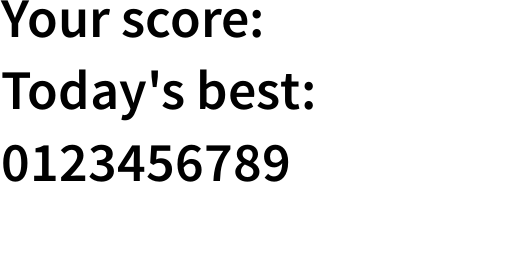
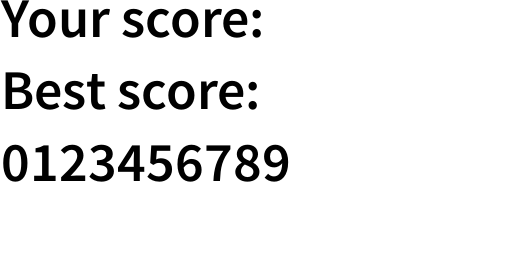
Store best score.  Avoid spending too much energy on projectiles

Changed region(s): [[0.0, 0.25, 0.625, 0.4688]]

diff --git a/game.js b/game.js
@@ -778,7 +778,7 @@ var GAME_health, GAME_healthMax;
 var GAME_score;
 var GAME_mission, GAME_missionScroll;
 var GAME_difficulty;
-var GAME_bestScore = 0;
+var GAME_bestScore;
 
 var GAME_focusCell;
 var GAME_cursorBlink;
@@ -1146,23 +1146,23 @@ function GAME_Draw (deltaTime)
       yOffset = -gl.viewportHeight + 250;
 
       DRAW_AddQuadST (GFX_score,
-                      (gl.viewportWidth - 241) * 0.5, yOffset,
+                      (gl.viewportWidth - 261) * 0.5, yOffset,
                       261, 38,
                       0.0, 0.0,
                       261.0 / 512.0, 38.0 / 256.0);
       yOffset += 50;
 
-      DRAW_AddNumber (Math.floor (GAME_score), gl.viewportWidth * 0.5, yOffset, 0.5);
+      DRAW_AddNumber (Math.floor (GAME_score), gl.viewportWidth * 0.5 - 14, yOffset, 0.5);
       yOffset += 80;
 
       DRAW_AddQuadST (GFX_score,
-                      (gl.viewportWidth - 315) * 0.5, yOffset,
-                      313, 52,
+                      (gl.viewportWidth - 265) * 0.5, yOffset,
+                      265, 52,
                       0.0, 69.0 / 256.0,
-                      313.0 / 512.0, 121.0 / 256.0);
+                      265.0 / 512.0, 121.0 / 256.0);
       yOffset += 60;
 
-      DRAW_AddNumber (Math.floor (GAME_bestScore), gl.viewportWidth * 0.5, yOffset, 0.5);
+      DRAW_AddNumber (Math.floor (GAME_bestScore), gl.viewportWidth * 0.5 - 14, yOffset, 0.5);
     }
 
   VEC_CruiseTo (GAME_missionScroll, { x: 0, y: GAME_mission }, 1.0, 1.0, deltaTime);
@@ -1334,10 +1334,10 @@ function GAME_ShootAtBaddies (deltaTime)
       if (GAME_mass - GAME_PROJECTILE_MASS <= GAME_CELL_COST)
         continue;
 
-      if (GAME_energy - GAME_CELL_ENERGY_COST <= 10.0 / cell.efficiency)
+      if (GAME_PROJECTILE_MASS > GAME_mass)
         continue;
 
-      if (GAME_PROJECTILE_MASS > GAME_mass)
+      if (GAME_energy - 1.5 * GAME_CELL_ENERGY_COST <= 10.0 / cell.efficiency)
         continue;
 
       if (!GAME_RequireEnergy (10.0 / cell.efficiency))
@@ -1422,10 +1422,10 @@ function GAME_Update ()
           GAME_mass += amount;
           GAME_energy -= amount / cell.efficiency;
           GAME_healthMax += cell.shield;
-        }
 
-      if (!GAME_RequireEnergy (GAME_cells.length * deltaTime * GAME_ENERGY_CELL_UPKEEP / cell.efficiency))
-        GAME_energy = 0;
+          if (!GAME_RequireEnergy (deltaTime * GAME_ENERGY_CELL_UPKEEP / cell.efficiency))
+            GAME_energy = 0;
+        }
 
       if (GAME_energy > GAME_energyStorage)
         GAME_energy = GAME_energyStorage;
@@ -1567,6 +1567,8 @@ function GAME_Update ()
     {
       GAME_over = true;
       GAME_health = 0;
+
+      localStorage['GAME_bestScore'] = GAME_bestScore;
     }
 
   GAME_difficulty += deltaTime;
@@ -1730,6 +1732,9 @@ function GAME_Reset ()
 function GAME_Init ()
 {
   var i;
+
+  if (undefined === (GAME_bestScore = localStorage['GAME_bestScore']))
+    GAME_bestScore = 0;
 
   SYS_Init ();
 
